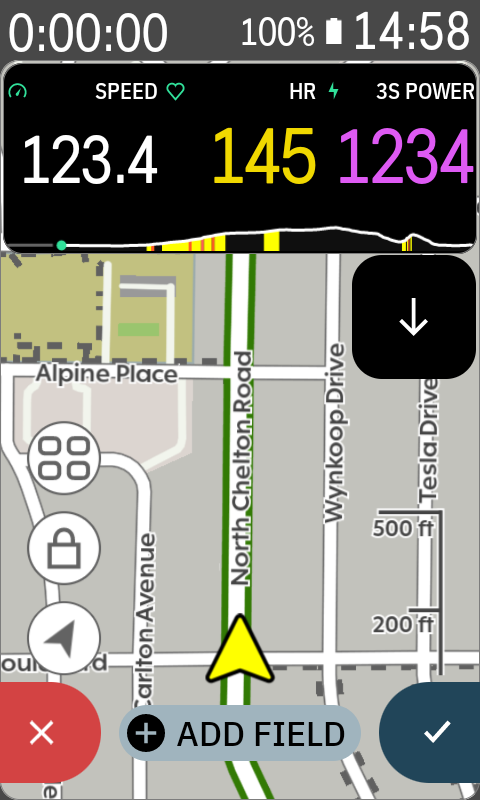
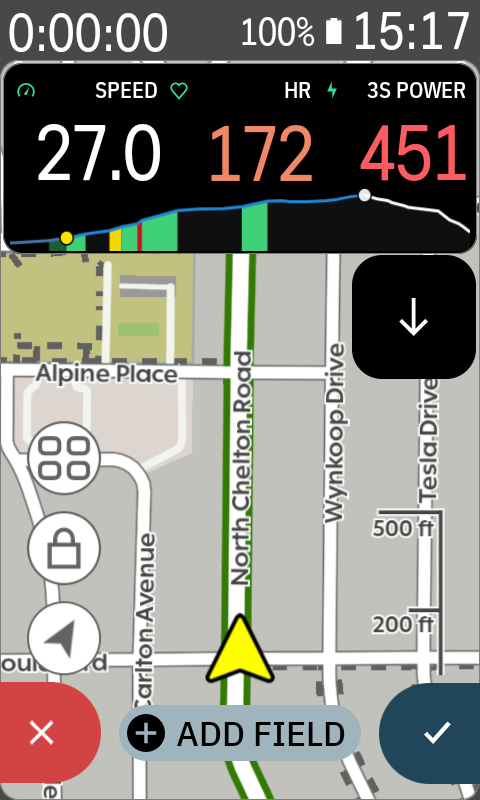
docs(readme): refresh hero strip with HUD on map and Karoo vs Barberfish comparison

diff --git a/README.md b/README.md
@@ -9,7 +9,10 @@ Native-feeling data field enhancements for the [Hammerhead Karoo](https://www.ha
 
 Barberfish is a small collection of data fields for the Hammerhead Karoo. They sit alongside the native ones, match their look, and quietly add a bit more: a 3- or 4-column HUD, a [Tufte](https://www.edwardtufte.com/notebook/sparkline-theory-and-practice-edward-tufte/)-inspired elevation sparkline, and configurable smoothing, color modes, palettes, and thresholds per field. Everything is set up in the Barberfish app on your Karoo with live previews; changes apply mid-ride.
 
-<p align="center"><img src="docs/hud_sparkline.jpg" width="600" alt="HUD with elevation sparkline"></p>
+<p align="center">
+  <img src="docs/hud_sparkline.jpg" width="48%" alt="3-column HUD with elevation sparkline over the map view">
+  <img src="docs/karoo_vs_barberfish.jpg" width="48%" alt="Karoo native fields next to Barberfish equivalents on a 5-row data page">
+</p>
 
 ## Enhancements
 
